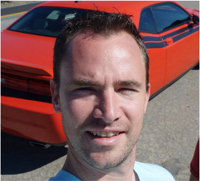
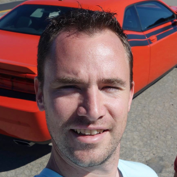
Features/ordina architecture kata post (#280)
* Initial commit Ordina Architecture Kata

* Added ADR description and link

* small changes and additions

* Architecture Kata image

* Resize Bart Blommaerts picture

* Finalized Architecture Kata post

* Changed date Architecture Kata post

* Feedback Bart; Added Kata description

* Feedback Yannick

diff --git a/_posts/2017-10-20-Ordina-Architecture-Kata.md b/_posts/2017-10-20-Ordina-Architecture-Kata.md
@@ -1,0 +1,210 @@
+---
+layout: post
+authors: [ken_coenen, bart_blommaerts]
+title: 'First edition of the Ordina Architecture Kata'
+image: /img/kata/kata-6-thumb.jpg
+tags: [Architecture, Agile, OODA]
+category: Architecture
+comments: true
+---
+
+> On the 18th of October 2017, Ordina Belgium organized the first __Ordina Architecture Kata__.
+The session was presided by Bart Blommaerts, cross-unit Competence Manager Architecture.
+A group of sixteen senior consultants, with different areas of expertise, were gathered in Mechelen to practice software architecture.
+
+## What is a Kata?
+
+Kata is a Japanese word most commonly known for the presence in martial arts.
+The English term for Kata is __form__ and it refers to the detailed choreographed patterns of movements practiced either solo or in pairs.
+
+You might know the saying **practice makes perfect**, and Architectural Katas are exactly that: practicing.
+These Katas were born out of a simple desire — Software architects need a chance to practice being software architects.
+
+> "So how are we supposed to get great architects, if they only get the chance to architect fewer than a half-dozen times in their career?" - Ted Neward
+
+## Pragmatic Architecture Today - Recap
+
+In his conference talk and blog post <a href="https://ordina-jworks.github.io/architecture/2017/06/21/pragmatic-architecture-today.html" target="_blank">Pragmatic Architecture, Today</a>, Bart Blommaerts discusses the need to think about Software Architecture. 
+
+Since this is very relevant to this Architecture Kata, we recap quickly what we learned back then.
+
+### Why do we need an architecture?
+
+We need to build a system.
+A system is build for stakeholders.
+Customers, users, developers, ... are all stakeholders of a particular system.
+Those stakeholders need to have a clear view on what needs to be built.
+
+Every system has an architecture, even those where architectural decisions weren't formally made.
+
+An architecture is described in an Architectural Description.
+This description is also particularly useful for the stakeholders.
+
+An Architectural Description uses views, which are shaped by perspectives.
+
+### OODA
+
+OODA is a re-entrant feedback loop, that consists of four stages:
+
+1. Observe: Listen to customers, gather requirements, available resources, ...
+2. Orient: Assess comparable systems, use your experience to make sense of your earlier observations.
+3. Decide: From the orientation stage, multiple alternatives might need to be considered. 
+In the decision stage, we take a decision. 
+4. Act: Act on your decision, implement.
+
+An exercise that can help you in the different stages, is to start with some bullet points and then writing them out explicitly.
+Comparing the full text with the bullet points, will often be very insightful.
+
+To reach consensus when taking decisions, share these with customers, peers, ... and verify if they share your ideas.
+
+
+## Visualization of the architecture
+
+> "One cannot see the ocean's currents by studying drops of water" — Grady Booch.
+
+To a certain amount, you can derive business logic from the code.
+One might say that the code is the truth, but not the whole truth.
+
+Goals of visualizing your architecture:
+ - Consistency
+ - Reporting — Architecture needs to be in the heads of the stakeholders
+ - Checking and validating — Share the architecture with your different stakeholders
+ - Share information — Other people might have experience with certain challenges
+
+### Unified Modeling Language (UML)
+
+Using a language like __UML__ can be useful, especially when doing model-driven development. 
+Also, be very aware that this way of working can become very inefficient.
+When you are not doing MDD, UML can still be used, if there is shared understanding of the created diagrams.
+
+### Boxes and lines
+
+__Boxes and lines__ are a possibility too, and Bart recommends this more pragmatic approach.
+Don't make things more complex than they need to be, boxes and lines are fine.
+Just make sure to be __consistent__ and always provide a __legend__.
+Also make sure your stakeholders understand what you're drawing.
+A legend will really help with getting the message across.
+It's important that you can discuss a matter while speaking a common language.
+
+Avoid fluffy diagrams and mixed abstractions.
+Don't mix eg. user interaction information with data flow information.
+
+### Decision log
+
+Document your decisions and alternatives in a __Decision log__, also known as Architecture Decision Record (ADR).
+It will prove itself useful in the future and requires you to think about a decision.
+
+There's no need to invent the wheel here.
+There are several templates for different use cases available on the internet, for example in <a href="https://github.com/joelparkerhenderson/architecture_decision_record" target="_blank">this ADR repo</a> on Github.
+
+Only document what's useful.
+
+## Viewpoints
+
+Views help you to make architectural decisions.
+Bart explained the different views with sharp-cut examples.
+
+__Context View__ — Describes the relationships, dependencies and interactions between the system and its environment.
+Added in the second print of the book.
+Bart thinks this might be the most important view of them all.
+Every component is a part of the greater system.
+
+__Functional View__ — Defines the architectural elements that deliver the systems functionality.
+It documents the systems functional structure.
+You can make decisions on a functional level eg. two components are doing similar things.
+Should they be separate components?
+
+__Information View__ — Models the system data and its state.
+The purpose of many applications today is capturing data.
+
+> Sidenote: Data modeling can be a long and complex process.
+As an architect, you need to do data modeling at an architecturally significant level of detail.
+Go to the level of detail that is needed for your team of developers.
+
+__Concurrency View__ — Describes the concurrency structure of the system, mapping functional elements to concurrency units to clearly identify the parts of the system that can execute concurrently eg. process a file in blocks.
+You can solve a lot with specific language constructs and asynchronous messaging.
+If you want to dig deeper and want to know the nitty gritty details of messaging, a must-read is the book <a href="https://www.goodreads.com/book/show/85012.Enterprise_Integration_Patterns" target="_blank">Enterprise Integration Patterns</a> by Gregor Hohpe and Bobby Woolf.
+
+__Development view__ — Describes the architecture that supports the software development process.
+When you have an experienced development team, this can be very high-level.
+Make sure you include the senior developers in the team, when constructing the development view.
+They have the experience and on top of that... they will be more motivated to be part of the decision making process and technical vision.
+
+__Deployment view__ — Describes the physical environment into which the system will be deployed, including the system dependencies on its runtime environment.
+Make sure you include all information relevant for deploying the application, eg. OS, Apache HTTPD, Tomcat, etc.
+
+__Operational view__ — Describe how the system will be operated, administered, and supported when it is running in its production environment.
+You can use a state chart to describe the operations process.
+
+## Perspectives
+
+Perspectives shape the views for non-functional requirements.
+
+When you introduce perspectives, you'll have to make trade-offs.
+An architectural decision will favour certain perspectives and at the same time, hinder other perspectives.
+For example, strong encryption favours security but hinders performance.
+
+Here's a list of very plausible non-functional requirements:
+ - __Accessibility__ — Ability of the system to be used by people with disabilities.
+ - __Evolution__ — Ability of the system to be flexible in the face of the inevitable change that all systems experience after deployment, balanced against the cost of providing such flexibility.
+ - __Location__ — Ability of your system to overcome problems brought about by the absolute location of your system's components.
+ - __Performance and scalability__ — Ability of the system to predictably execute within its mandatory performance profile and to handle increased processing volumes.
+ - __Regulation__ — Ability of the system to conform to local and international laws, quasi-legal regulations, company policies, and other rules and standards.
+ - __Security__ — Ability of the system to reliably control, monitor and audit who can perform what actions on what resources and to detect and recover from failures in security mechanisms.
+ - __Usability__ — The ease with which people who interact with the system can work effectively.
+
+## The Kata
+
+Our kata for today — AM.I.SCK
+ - Nurses that answer questions from patients via a chat platform.
+ - 250+ nurses
+ - Access to medical histories
+ - Assist nurses in providing medical diagnosis
+ - Reach local medical staff, even ahead of time
+ - Enable parts of the system for direct patient usage
+ - Conversations are not considered medical records
+
+The sixteen attendees were divided in groups of four.
+
+Each team had fifteen to twenty minutes to brainstorm about the case and create the first four views on a whiteboard together.
+Afterwards, each team had to present their views to the entire group.
+Bart challenged our opinions and gave practical tips on how to improve our thinking.
+
+After a second theoretical deep dive about how perspectives can have an effect on your views, we did the same excercise for the last three views.
+
+<img alt="Ordina Architectural Kata" src="{{ '/img/kata/banner-small.jpg' | prepend: site.baseurl }}" class="image fit" style="margin:0px auto;">
+
+## Takeaways
+
+The different viewpoints really complement each other.
+When drawing a view, you'll notice that you might be able to add more information to another view and vice versa.
+
+When drawing a context view, focus on the interactions with other systems.
+Don't be tempted in drawing eg. a frontend and a backend component for your system, unless these are separated by external systems.
+That granularity is not important for the context view.
+
+One view can contain several diagrams (eg. you can have multiple state diagrams in the Information View), additional text, tables containing data, etc.
+
+Use the experience of every team member to draw the diagrams.
+Think of similar projects and previous professional experiences.
+
+## Ordina Accelerator 2018
+
+This course was part of the <a href="https://ordina-accelerator.be/" target="_blank">Ordina Accelerator program</a>.
+With Accelerator, Ordina offers its employees the necessary tools to develop themselves further.
+Not only technical-, but also social- and organizational skills are included in the program.
+
+Medior and Senior experts get the chance to literally __accelerate their career__ by extensively following courses and workshops over a period of two years.
+
+## Links and resources
+
+- Recommended reading: 
+<a href="https://www.goodreads.com/book/show/11686849-software-systems-architecture" target="_blank">Software Systems Architecture</a> by Eoin Woods and Nick Rozanski.
+In this book, they discuss Viewpoints and Perspectives
+- <a href="http://nealford.com/katas/about.html" target="_blank">Architectural Katas</a> on neilford.com
+- <a href="https://archkatas.herokuapp.com/" target="_blank">https://archkatas.herokuapp.com/</a>
+- <a href="https://groups.google.com/forum/#!forum/architecturalkatas" target="_blank">ArchitecturalKatas</a> Google User Group
+- <a href="http://liminalthinking.com/" target="_blank">Liminal Thinking</a>
+- <a href="http://www.enterpriseintegrationpatterns.com/" target="_blank">Enterprise Integration Patterns</a>
+
+
